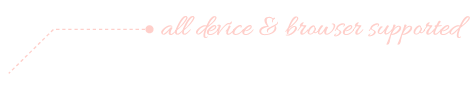
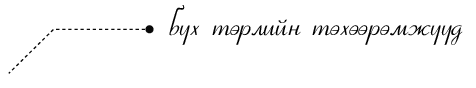
frontend design

diff --git a/core/templates/default.php b/core/templates/default.php
@@ -45,38 +45,48 @@
                             <span class="fa fa-bar"></span>
                             <span class="fa fa-bar"></span>
                         </button>
-                        <a class="navbar-brand" href="index.html">mini<span>CMS</span>&trade;</a>
+                        <a class="navbar-brand" href="#">mBm<span> TECHNOLOGY</span> LLC</a>
                     </div>
                     <div class="navbar-collapse collapse ">
                         <ul class="nav navbar-nav">
-                            <li class="active"><a href="index.html">Home</a></li>
-                            <li><a href="about.html">About</a></li>
-                            <li><a href="services.html">Service</a></li>
+                            <li class="active"><a href="#">Нүүр хуудас</a></li>
+                            <li><a href="services.html"></a></li>
                             <li class="dropdown ">
-                                <a href="#" class="dropdown-toggle " data-toggle="dropdown" data-hover="dropdown" data-delay="0" data-close-others="false">Feature <b class=" fa fa-angle-down"></b></a>
+                                <a href="#" class="dropdown-toggle " data-toggle="dropdown" data-hover="dropdown" data-delay="0" data-close-others="false">Үйлчилгээ<b class=" fa fa-angle-down"></b></a>
                                 <ul class="dropdown-menu">
-                                    <li><a href="typography.html">Typography</a></li>
-                                    <li><a href="button.html">Buttons</a></li>
+                                    <li><a href="#">Вэб хөгжүүлэлт</a></li>
+                                    <li><a href="#">Вэб хостинг</a></li>
+                                    <li><a href="#">Buttons</a></li>
+                                    <li><a href="#">Buttons</a></li>
                                 </ul>
                             </li>
-                            <li><a href="portfolio.html">Portfolio</a></li>
-                            <li><a href="price.html">Price</a></li>
-                            <li><a href="blog.html">Blog</a></li>
-                            <li><a href="contact.html">Contact</a></li>
+                            <li class="dropdown ">
+                                <a href="#" class="dropdown-toggle " data-toggle="dropdown" data-hover="dropdown" data-delay="0" data-close-others="false">miniCMS &trade;<b class=" fa fa-angle-down"></b></a>
+                                <ul class="dropdown-menu">
+                                    <li><a href="#">Танилцуулга</a></li>
+                                    <li><a href="#">Боломжууд</a></li>
+                                    <li><a href="#">Технологи</a></li>
+                                    <li><a href="#">Давуу тал</a></li>
+                                    <li><a href="#">Гарын авлага</a></li>
+                                </ul>
+                            </li>
+                            <li><a href="#">Бүтээл</a></li>
+                            <li><a href="#">Тусламж</a></li>
+                            <li><a href="#">Мэдээ</a></li>
                             <li class="dropdown language">
                                 <a href="#" class="dropdown-toggle" data-toggle="dropdown" data-hover="dropdown" data-close-others="true">
-                                    <img alt="" src="/assets/flatlab/frontend/img/flags/us.png">
-                                    <span class="username">US</span>
+                                    <img alt="" src="/assets/flatlab/frontend/img/flags/mn.png">
+                                    <span class="username">Монгол</span>
                                     <b class=" fa fa-angle-down"></b>
                                 </a>
                                 <ul class="dropdown-menu">
-                                    <li><a href="#"><img alt="" src="/assets/flatlab/frontend/img/flags/es.png"> Spanish</a></li>
-                                    <li><a href="#"><img alt="" src="/assets/flatlab/frontend/img/flags/de.png"> German</a></li>
-                                    <li><a href="#"><img alt="" src="/assets/flatlab/frontend/img/flags/ru.png"> Russian</a></li>
-                                    <li><a href="#"><img alt="" src="/assets/flatlab/frontend/img/flags/fr.png"> French</a></li>
+                                    <li><a href="#"><img alt="" src="/assets/flatlab/frontend/img/flags/gb.png"> Англи</a></li>
+                                    <li><a href="#"><img alt="" src="/assets/flatlab/frontend/img/flags/ru.png"> Орос</a></li>
+                                    <li><a href="#"><img alt="" src="/assets/flatlab/frontend/img/flags/es.png"> Испани</a></li>
+                                    <li><a href="#"><img alt="" src="/assets/flatlab/frontend/img/flags/ae.png"> Араб</a></li>
                                 </ul>
                             </li>
-                            <li><input type="text" placeholder=" Search" class="form-control search"></li>
+                            <li><input type="text" placeholder=" Хайлт хийх.." class="form-control search"></li>
                         </ul>
                     </div>
                 </div>
@@ -88,7 +98,66 @@
         <div class="fullwidthbanner-container main-slider">
             <div class="fullwidthabnner">
                 <ul id="revolutionul" style="display:none;">
-                    <!-- 1st slide -->
+                    
+
+                    <!-- 1st slide  -->
+                    <li data-transition="fade" data-slotamount="8" data-masterspeed="700" data-delay="9400" data-thumb="">
+                        <!-- THE MAIN IMAGE IN THE FIRST SLIDE -->
+                        <img src="/assets/flatlab/frontend/img/banner/banner_bg.jpg" alt="">
+                        <div class="caption lft slide_title"
+                             data-x="10"
+                             data-y="125"
+                             data-speed="400"
+                             data-start="1500"
+                             data-easing="easeOutExpo">
+                            mBm TECHNOLOGY LLC
+                        </div>
+                        <div class="caption lft slide_subtitle dark-text"
+                             data-x="10"
+                             data-y="180"
+                             data-speed="400"
+                             data-start="2000"
+                             data-easing="easeOutExpo">
+                             Шуурхай, найдвартай, баталгаатай үйлчилгээ
+                        </div>
+                        <div class="caption lft slide_desc dark-text"
+                             data-x="10"
+                             data-y="240"
+                             data-speed="400"
+                             data-start="2500"
+                             data-easing="easeOutExpo">
+                            - Вэб сайт, гар утас, дэлгэцийн программ хангамж хөгжүүлэлт <br>
+                            - Вэб байрлуулах талбар олгох, домэйн нэр олгох үйлчилгээ<br>
+                            - Сургалт явуулах, зөвлөгөө өгөх үйлчилгэээ
+                        </div>
+                        <a class="caption lft slide_btn btn red slide_item_left" href="#" target="_blank"
+                           data-x="10"
+                           data-y="360"
+                           data-speed="400"
+                           data-start="3000"
+                           data-easing="easeOutExpo">
+                            Дэлгэрэнгүй
+                        </a>
+                        <div class="caption lft start"
+                             data-x="640"
+                             data-y="55"
+                             data-speed="400"
+                             data-start="2000"
+                             data-easing="easeOutBack"  >
+                            <img src="/assets/flatlab/frontend/img/banner/man1.png" alt="man">
+                        </div>
+                        <div class="caption lft slide_item_right"
+                             data-x="330"
+                             data-y="20"
+                             data-speed="500"
+                             data-start="5000"
+                             data-easing="easeOutBack">
+                            <img src="/assets/flatlab/frontend/img/banner/test_man.png" id="rev-hint2" alt="txt img">
+                        </div>
+
+                    </li>
+                    
+                    <!-- 2nd slide -->
                     <li data-transition="fade" data-slotamount="8" data-masterspeed="700" data-delay="9400" data-thumb="">
                         <div class="caption lfl slide_item_left"
                              data-x="10"
@@ -104,7 +173,7 @@
                              data-speed="400"
                              data-start="1000"
                              data-easing="easeOutExpo">
-                            Clean & Creative
+                            miniCMS v3 &trade;
                         </div>
 
                         <div class="caption lfr slide_subtitle dark-text"
@@ -113,7 +182,7 @@
                              data-speed="400"
                              data-start="2000"
                              data-easing="easeOutExpo">
-                            A Responsive Frontend Template
+                            Илүү хялбар, илүү хурдан
                         </div>
                         <div class="caption lfr slide_desc"
                              data-x="670"
@@ -121,81 +190,24 @@
                              data-speed="400"
                              data-start="2500"
                              data-easing="easeOutExpo">
-                            Sed ut perspiciatis unde omnis iste natus error sit voluptatem <br>
-                            accusantium doloremque laudantium, totam rem aperiam,<br>
-                            eaque ipsa quae ablic jiener.
+                            miniCMS буюу Вэбийн мэдээлэл боловсруулагч систем нь 2005 онд бүтээгдсэн <br>
+                            бөгөөд, шинэ хувилбар болох v3-аа 2014 онд гаргаад байна. Шинэ хувилбар <br>
+                            ажиллагааны хувьд энгийн, хялбар, ойлгомжтой болсон.
                         </div>
-                        <a class="caption lfr btn yellow slide_btn" href="http://thevectorlab.net/flatlab" target="_blank"
+                        <a class="caption lfr btn yellow slide_btn" href="#"
                            data-x="670"
                            data-y="400"
                            data-speed="400"
                            data-start="3500"
                            data-easing="easeOutExpo">
-                            Watch Dashboard
+                            Дэлгэрэнгүй
                         </a>
-
-                    </li>
-
-                    <!-- 2nd slide  -->
-                    <li data-transition="fade" data-slotamount="8" data-masterspeed="700" data-delay="9400" data-thumb="">
-                        <!-- THE MAIN IMAGE IN THE FIRST SLIDE -->
-                        <img src="/assets/flatlab/frontend/img/banner/banner_bg.jpg" alt="">
-                        <div class="caption lft slide_title"
-                             data-x="10"
-                             data-y="125"
-                             data-speed="400"
-                             data-start="1500"
-                             data-easing="easeOutExpo">
-                            YAHOOOOO. TWO IN ONE
-                        </div>
-                        <div class="caption lft slide_subtitle dark-text"
-                             data-x="10"
-                             data-y="180"
-                             data-speed="400"
-                             data-start="2000"
-                             data-easing="easeOutExpo">
-                            Admin & Fronend in a single bundle
-                        </div>
-                        <div class="caption lft slide_desc dark-text"
-                             data-x="10"
-                             data-y="240"
-                             data-speed="400"
-                             data-start="2500"
-                             data-easing="easeOutExpo">
-                            Sed ut perspiciatis unde omnis iste natus error sit voluptatem <br>
-                            accusantium doloremque laudantium, totam rem aperiam,<br>
-                            eaque ipsa quae ablic jiener.
-                        </div>
-                        <a class="caption lft slide_btn btn red slide_item_left" href="#" target="_blank"
-                           data-x="10"
-                           data-y="360"
-                           data-speed="400"
-                           data-start="3000"
-                           data-easing="easeOutExpo">
-                            Purchase Now
-                        </a>
-                        <div class="caption lft start"
-                             data-x="640"
-                             data-y="55"
-                             data-speed="400"
-                             data-start="2000"
-                             data-easing="easeOutBack"  >
-                            <img src="/assets/flatlab/frontend/img/banner/man.png" alt="man">
-                        </div>
-                        <div class="caption lft slide_item_right"
-                             data-x="330"
-                             data-y="20"
-                             data-speed="500"
-                             data-start="5000"
-                             data-easing="easeOutBack">
-                            <img src="/assets/flatlab/frontend/img/banner/test_man.png" id="rev-hint2" alt="txt img">
-                        </div>
 
                     </li>
 
                     <!-- 3rd slide  -->
                     <li data-transition="fade" data-slotamount="7" data-masterspeed="300" data-delay="9400" data-thumb="">
-                        <img src="/assets/flatlab/frontend/img/banner/red-bg.jpg" alt="">
+                        <img src="/assets/flatlab/frontend/img/banner/white-bg.jpg" alt="">
                         <div class="caption lfl slide_item_right"
                              data-x="10"
                              data-y="105"
@@ -237,31 +249,31 @@
                             <img src="/assets/flatlab/frontend/img/banner/text_imac.png" id="rev-hint1" alt="Image 1">
                         </div>
 
-                        <div class="caption lfr slide_title slide_item_left yellow-txt"
+                        <div class="caption lfr slide_title slide_item_left"
                              data-x="670"
                              data-y="145"
                              data-speed="400"
                              data-start="3500"
                              data-easing="easeOutExpo">
-                            Full Responsive
+                            Цогц үйлилгээ
                         </div>
-                        <div class="caption lfr slide_subtitle slide_item_left"
+                        <div class="caption lfr slide_subtitle slide_item_left dark-text"
                              data-x="670"
                              data-y="200"
                              data-speed="400"
                              data-start="4000"
                              data-easing="easeOutExpo">
-                            And Awesome Flat Design
+                            Веб, мобайл, десктоп
                         </div>
-                        <div class="caption lfr slide_desc slide_item_left"
+                        <div class="caption lfr slide_desc slide_item_left dark-text"
                              data-x="670"
                              data-y="280"
                              data-speed="400"
                              data-start="4500"
                              data-easing="easeOutExpo">
-                            Sed ut perspiciatis unde omnis iste natus error sit voluptatem <br>
-                            accusantium doloremque laudantium, totam rem aperiam,<br>
-                            eaque ipsa quae ablic jiener.
+                            Бүх төрлийн веб сайт <br>
+                            Андройд болон iOs ухаалаг утасны аппликешн,<br>
+                            Windows, Mac дэлгэцийн программууд.
                         </div>
 
 
